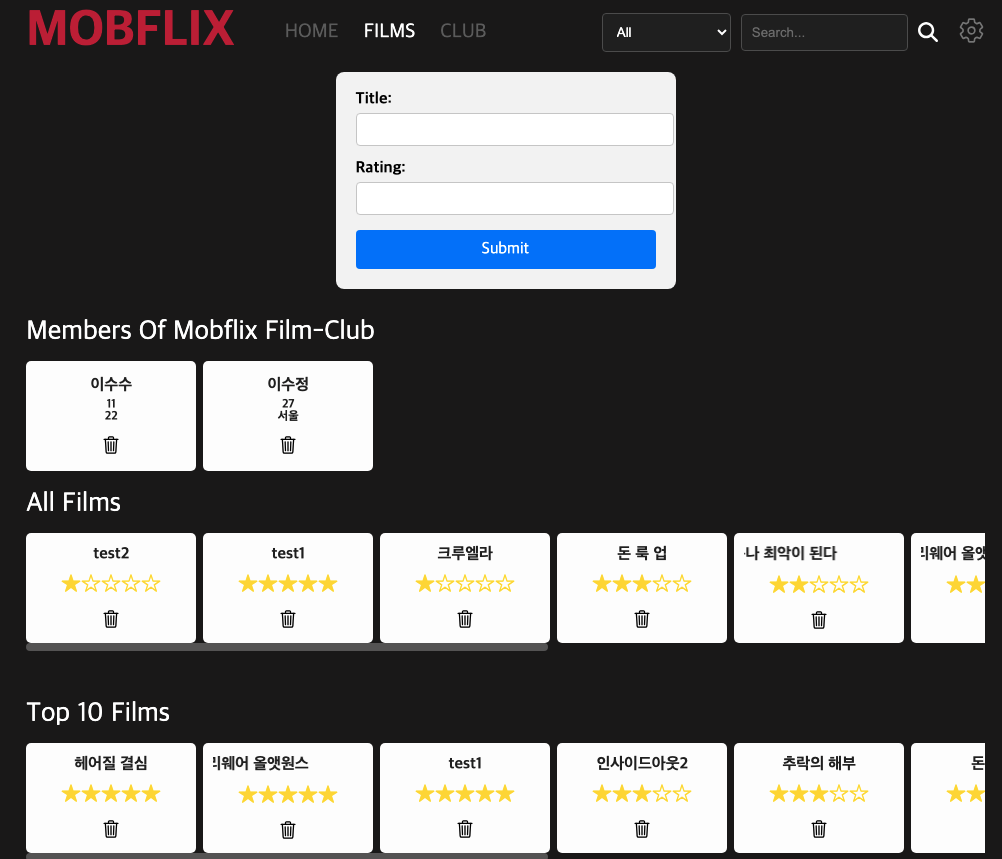
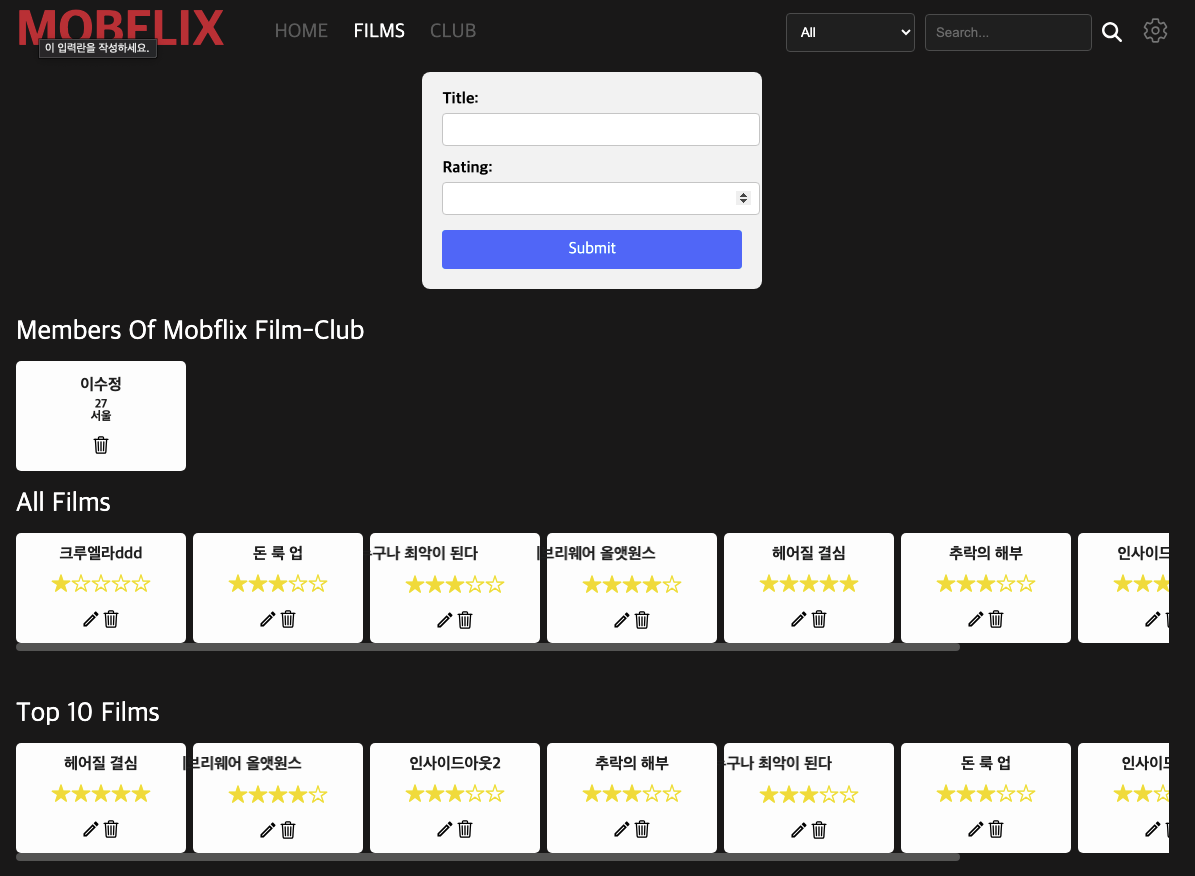
doc: README 수정

diff --git a/README.md b/README.md
@@ -37,7 +37,8 @@
 <br />
 
 <img src='/public/README/2.png' alt='preview' width='450' />
-<p>영화 페이지 - 영화 등록/삭제</p>
+<img src='/public/README/2-1.png' alt='preview' width='170' />
+<p>영화 페이지 - 영화 등록/삭제/수정</p>
 
 <br />
 
